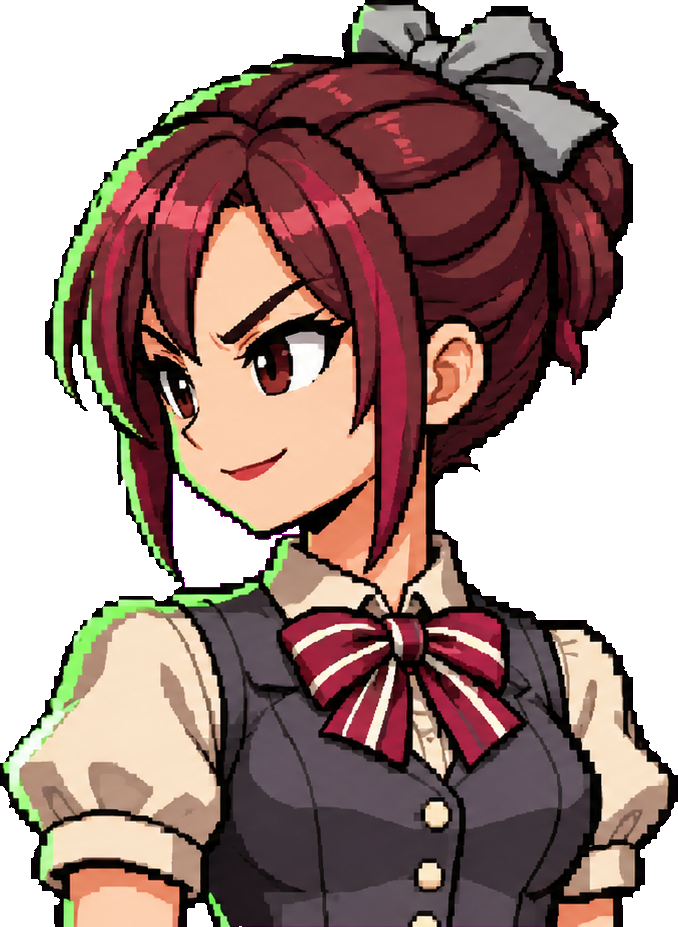
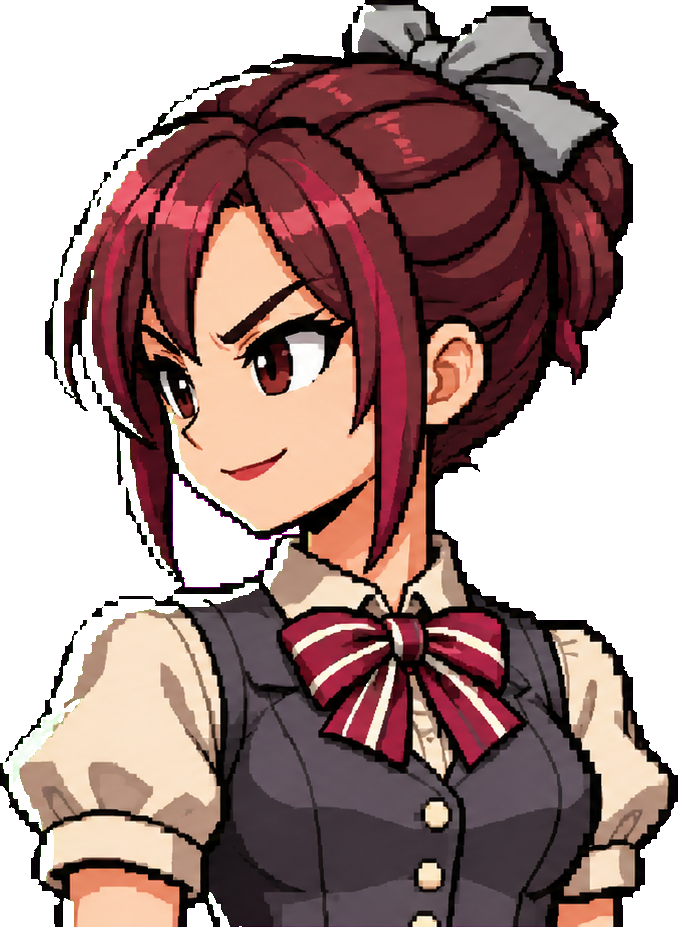
UX 巡檢第三批：對話跳過鈕移左上、茶水間特訓可返回、許許立繪去綠邊
- 對話的「跳過」移到左上，不會被右上的考績紙條蓋住
- 打輸的按鈕改寫「重新出發」（是整趟重來）
- 茶水間：全員滿血時預設停在特訓；特訓三選一可以回上一頁
- 採買站的離開說明寫明福利社也能花
- 行程表選了道具後點到用不到的人，會說明原因，不再跳去資料頁
- 招募卡的定位寫完整（防禦、補血、攻擊）
- 許許的立繪清掉綠幕殘邊

diff --git a/js/game.js b/js/game.js
@@ -656,7 +656,8 @@ function startStage() {
 let rescued = null;
 const met = id => { PREF.met = PREF.met || []; if (!PREF.met.includes(id)) { PREF.met.push(id); savePref(); } };
 const uniteWith = id => { if (!run || !run.roster) return null; const U = R.UNITES.find(u => u.who.includes(id) && u.who.every(h => h === id || run.roster.includes(h))); return U ? `★ 和${U.who.filter(h => h !== id).map(h => DEFS[h].name).join('、')}有合體技「${U.name}」` : null; };      // 招募卡上提醒：帶他就能放合體技
-const heroCard = (id, go, starter) => ({ label: DEFS[id].name, tag: DEFS[id].job.includes(R.ROLE[id]) ? DEFS[id].job : `${DEFS[id].job}　${R.ROLE[id]}`, bust: id, lines: [`HP ${R.STAT[id].hp}　SP ${R.STAT[id].sp}　攻擊 ${R.STAT[id].atk}`, ...(starter ? [`${R.SKILLS[id].length} 個招式先選一個（下一步）`] : [R.SENSE.includes(id) ? '★ 在場時看得到敵人的弱點和下一步' : null, uniteWith(id), ...R.SKILLS[id].map(k => `◆ ${k.name}　${k.note}`)]), `奧義「${DEFS[id].skill}」`, DEFS[id].desc || ''], go });
+const ROLE_NAME = { 坦: '防禦', 補: '補血', 輸出: '攻擊' };
+const heroCard = (id, go, starter) => ({ label: DEFS[id].name, tag: `${DEFS[id].job}・${ROLE_NAME[R.ROLE[id]] || R.ROLE[id]}`, bust: id, lines: [`HP ${R.STAT[id].hp}　SP ${R.STAT[id].sp}　攻擊 ${R.STAT[id].atk}`, ...(starter ? [`${R.SKILLS[id].length} 個招式先選一個（下一步）`] : [R.SENSE.includes(id) ? '★ 在場時看得到敵人的弱點和下一步' : null, uniteWith(id), ...R.SKILLS[id].map(k => `◆ ${k.name}　${k.note}`)]), `奧義「${DEFS[id].skill}」`, DEFS[id].desc || ''], go });
 // 立繪對話（11/21 使用者：要有開場對話，同事加入時也要講話）。點一下換下一句，右上角可以跳過。台詞都在 TALK，要改口吻改這裡。
 // open：主角＋第一場陪打的人（'主角+陪打'），每一組只在第一次出現；join：加入隊伍時說的一句
 const TALK = {
@@ -675,7 +676,7 @@ function drawTalk() { const T = menu.talk, [who, line] = T.lines[T.i], d = DEFS[
   const bx = 240, bw2 = W - 480, by = 770, bh2 = 256, right = T.cast.indexOf(who) === 1, nw = Math.max(300, mw(d.name, 42, 900, SERIF) + mw(d.tag || d.job, 26, 700) + 90), nx = right ? bx + bw2 - nw - 36 : bx + 36; skin.paper(bx, by, bw2, bh2);
   skin.wood(nx, by - 50, nw, 76, { studs: false }); text(d.name, nx + 26, by + 4, { px: 42, w: 900, fam: SERIF, col: CREAM, ls: 4, stroke: 'rgba(20,10,4,.7)', sw: 5 }); text(d.tag || d.job, nx + nw - 24, by + 2, { px: 26, w: 700, align: 'right', col: BRASS });
   wrap(line, bw2 - 120, 44).slice(0, 3).forEach((s, k) => text(s, bx + 60, by + 104 + k * 60, { px: 44, w: 700, col: INK }));
-  text(last ? '點一下繼續 ▶' : `點一下看下一句（${T.i + 1}／${T.lines.length}）▼`, bx + bw2 - 44, by + bh2 - 26, { px: 26, w: 700, align: 'right', col: INK2 }); sheetBtn('跳過', W - 310, 30, 260, 88, 1, false); }
+  text(last ? '點一下繼續 ▶' : `點一下看下一句（${T.i + 1}／${T.lines.length}）▼`, bx + bw2 - 44, by + bh2 - 26, { px: 26, w: 700, align: 'right', col: INK2 }); sheetBtn('跳過', 50, 30, 260, 88, 1, false); }
 // 開局的選擇頁（路線、週目、加班、主角、招式、帶誰、職位）一路走過來的紀錄：每一頁左上角都有「回上一頁」，第一頁回標題
 const NAV = []; let jobOffer = null;
 const toTitle = () => { NAV.length = 0; menu = null; saved = undefined; phase = 'title'; };
@@ -756,12 +757,12 @@ function openEvent() { const key = run.events[run.floor], ev = R.EVENTS[key];
 // 休息站二選一：休息（回血、補 SP），或特訓（三個招式挑一個升級成「＋」：傷害與回復量 ＋25%、SP 消耗 －20%，每招一次）
 function openRest(nd, free) { const place = nd.name || '茶水間', tr = R.offerTrain(run), hurt = run.roster.filter(id => id !== 'vivi').reduce((a, id) => a + (R.STAT[id].hp - run.hp[id]), 0);
   const rest = () => { const v = R.rest(run); snd(now, 'heal', .8); R.advance(run); openHub(v > 0 ? `在${place}休息：全隊共回復 ${v} HP，SP 補滿` : `在${place}休息：SP 補滿（HP 本來就是滿的）`); };
-  const train = () => openCards({ title: free ? place : '特訓', sub: '挑一個招式升級成「＋」（每個招式只能升一次）：', foot: '選完回到行程表', items: tr.map(([id, key]) => { const k = R.SKILLS[id].find(q => q.key === key); return { label: k.name + '＋', tag: `${DEFS[id].name}　SP ${k.sp} → ${Math.ceil(k.sp * .8)}`, icon: 'sk_' + key, lines: [k.desc, '傷害與回復量 ＋25%'], go: () => { R.applyTrain(run, id, key); snd(now, sfxOr('train', 'buff'), .8); R.advance(run); openHub(`特訓完成：${DEFS[id].name}的「${k.name}」升級成「${k.name}＋」`); } }; }) });
+  const train = () => { const prev = menu; openCards({ ...(free ? {} : { back: () => { menu = prev; phase = 'pick'; focus = 1; } }), title: free ? place : '特訓', sub: '挑一個招式升級成「＋」（每個招式只能升一次）：', foot: '選完回到行程表', items: tr.map(([id, key]) => { const k = R.SKILLS[id].find(q => q.key === key); return { label: k.name + '＋', tag: `${DEFS[id].name}　SP ${k.sp} → ${Math.ceil(k.sp * .8)}`, icon: 'sk_' + key, lines: [k.desc, '傷害與回復量 ＋25%'], go: () => { R.applyTrain(run, id, key); snd(now, sfxOr('train', 'buff'), .8); R.advance(run); openHub(`特訓完成：${DEFS[id].name}的「${k.name}」升級成「${k.name}＋」`); } }; }) }); };
   if (free) { if (tr.length) return train(); for (const id of run.roster) run.sp[id] = Math.min(R.STAT[id].sp, run.sp[id] + 40); R.advance(run); return openHub(`${place}：招式都升級過了，全員 SP ＋40`); }
   if (!tr.length) return rest();
   openCards({ title: place, sub: '休息一下，還是趁空檔練一招？只能選一個。', foot: '選一個', items: [
     { label: '休息', tag: '回血、補 SP', icon: 'rest', big: true, lines: ['全員 HP 回復一半', '全員 SP 補滿', hurt > 0 ? `現在全隊少了 ${hurt} HP` : '現在大家都是滿血'], go: rest },
-    { label: '特訓', tag: '升級一個招式', icon: 'up_learn', big: true, lines: ['三個招式挑一個升級成「＋」', '傷害、回復量 ＋25%', 'SP 消耗 －20%；這一站不回血'], go: train }] }); }
+    { label: '特訓', tag: '升級一個招式', icon: 'up_learn', big: true, lines: ['三個招式挑一個升級成「＋」', '傷害、回復量 ＋25%', 'SP 消耗 －20%；這一站不回血'], go: train }] }); if (hurt <= 0) focus = 1; }
 // 採買站：用報帳額度買東西，可以買好幾樣，按「離開」才走
 // 福利社：行程表上隨時可以開，把打贏拿到的報帳額度花掉——買單樣道具、抽一位同事、買素質 ＋1（規則在 R.storeBuy）
 function openStore(msg) { const price = p => `${p} 點` + (run.coin < p ? '（不夠）' : ''), buy = k => { const r = R.storeBuy(run, k); if (!r) return; snd(now, sfxOr('coin', 'buff'), .8); if (r.joined) { met(r.joined); saveGame(); return sayJoin(r.joined, () => openStore(`抽到${DEFS[r.joined].name}，加入隊伍！`)); } saveGame(); if (r.boost) return openBoost(`${R.BOOST[r.boost][0]}強化到 ＋${r.lv}`); openStore(r.joined ? `抽到${DEFS[r.joined].name}，加入隊伍！` : `買了${R.ITEMS[r.item].name}`); };
@@ -777,7 +778,7 @@ function openShop(nd) { const st = R.shopStock(run), U = st.relic && R.UPGRADES[
     U ? { label: U.name, tag: `${R.UP_TAG[st.relic] || '小物'}　${tag('relic')}`, icon: 'up_' + st.relic, lines: U.desc.split('，'), off: !can('relic'), go: () => { R.buy(run, 'relic'); snd(now, sfxOr('coin', 'buff'), .8); openShop(nd); } } : { label: '小物賣完了', tag: '', icon: 'gift', lines: ['能拿的都拿過了'], off: true, go: () => {} },
     { label: '補給包', tag: tag('supply'), icon: 'up_drinks', lines: ['珍珠奶茶 ＋1', '黑咖啡 ＋1', '雞排便當 ＋1'], off: !can('supply'), go: () => { R.buy(run, 'supply'); snd(now, sfxOr('coin', 'buff'), .8); openShop(nd); } },
     { label: '特訓', tag: tr.length ? tag('train') : '招式都升級過了', icon: 'up_learn', lines: ['三個招式挑一個升級成「＋」', '傷害、回復量 ＋25%', 'SP 消耗 －20%'], off: !can('train') || !tr.length, go: () => openCards({ title: '特訓', sub: `挑一個招式升級成「＋」（${R.PRICE.train} 點）：`, foot: '選完回到採買', items: tr.map(([id, key]) => { const k = R.SKILLS[id].find(q => q.key === key); return { label: k.name + '＋', tag: `${DEFS[id].name}　SP ${k.sp} → ${Math.ceil(k.sp * .8)}`, icon: 'sk_' + key, lines: [k.desc, '傷害與回復量 ＋25%'], go: () => { R.buy(run, 'train', [id, key]); snd(now, sfxOr('train', 'buff'), .8); openShop(nd); } }; }) }) },
-    { label: '離開', tag: '回行程表', icon: 'clock', lines: ['沒花完的額度會留著', '下一個採買站還能用'], go: leave }] }); }
+    { label: '離開', tag: '回行程表', icon: 'clock', lines: ['沒花完的額度會留著', '行程表的福利社也能花'], go: leave }] }); }
 function openUpgrade(gift) { const offers = R.offerUpgrades(run);
   openCards({ title: gift ? '福委會' : '過關獎勵', sub: gift ? '這個月的福利，選一個：' : (rescued ? `救出了${DEFS[rescued].name}！` : '') + (run.guestLeft ? `${DEFS[run.guestLeft].name}先回去忙了，接下來自己找同事。` : '') + (run.lastLearn && run.starter ? `${DEFS[run.starter].name}學會了「${R.SKILLS[run.starter].find(k => k.key === run.lastLearn).name}」！` : '') + (run.lastReward ? run.lastReward + '。' : '') + (run.lastCoin ? `報帳額度 ＋${run.lastCoin}（共 ${run.coin} 點，行程表的福利社可以花）。` : '') + (run.guestLeft || run.lastLearn || rescued ? '全員回復一些 HP 和 SP。' : '全員回復兩成五 HP、三成 SP，倒下的人也站起來了。') + '再選一個強化：', foot: '選完回到行程表', items: offers.map(k => { const U = R.UPGRADES[k], who = (U.need || []).filter(id => run.roster.includes(id)).map(id => DEFS[id].name); const tg = R.UP_TAG[k], tn = tg ? R.tagCount(run, tg) : 0; return { label: U.name, tag: [tg ? `${tg}${tn < 3 ? `（已有 ${tn}／3）` : '（套裝已湊齊）'}` : '', who.length ? `配合${who.join('、')}的招式` : ''].filter(Boolean).join('　'), icon: 'up_' + k, lines: U.desc.split('，'), big: true, go: () => pickUpgrade(k) }; }) }); }
 function pickUpgrade(k, opt) {
@@ -793,12 +794,12 @@ function hubItems() { const fl = R.MAP[run.floor], ok = R.reachable(run), items 
 // 資料卡：素質、招式、奧義。這一輪同行的人可以用「上一位／下一位」翻；名冊裡沒同行的人只看基本資料
 // 「隊伍與道具」選單：隊伍順序（只有在行程表能調）、每個人的資料卡、道具、強化、夥伴名冊。行程表與戰鬥中輪到自己時都能叫出來
 const inBattle = () => phase !== 'hub', curHp = id => inBattle() && R.HEROES.includes(id) ? Math.max(0, state.hp[id]) : run.hp[id], curSp = id => inBattle() && R.HEROES.includes(id) ? state.sp[id] : run.sp[id];
-let mapItem = null;      // 行程表的「隊伍與道具」：點了哪個道具、等著選人（戰鬥中不用這個，照舊從指令用）
+let mapItem = null, mapNote = '';      // 行程表的「隊伍與道具」：點了哪個道具、等著選人（戰鬥中不用這個，照舊從指令用）
 const mapUse = id => { const k = mapItem, r = k && R.useMapItem(run, k, id); if (!r) { uiSound('move'); return; } snd(now, 'heal', .8); if (!R.mapItemTargets(run, k).length) mapItem = null; saveGame(); refreshPanel(); };
 function panelItems() { const items = []; if (inBattle()) mapItem = null;
   if (!inBattle()) run.roster.forEach((id, r) => { if (r > 0) items.push({ label: '上移', re: r, d: -1, go: () => { R.reorder(run, r, -1); refreshPanel(); } }); if (r < run.roster.length - 1) items.push({ label: '下移', re: r, d: 1, go: () => { R.reorder(run, r, 1); refreshPanel(); } }); });
-  run.roster.forEach((id, r) => items.push({ label: '資料', view: id, row: r, go: () => mapItem && R.mapItemTargets(run, mapItem).includes(id) ? mapUse(id) : openSheet(id) }));
-  if (!inBattle() && panelTab === 0) for (const k of Object.keys(R.ITEMS)) items.push({ label: R.ITEMS[k].name, use: k, off: !R.mapItemTargets(run, k).length, go: () => { mapItem = mapItem === k ? null : k; snd(now, 'card', .6); refreshPanel(); } });
+  run.roster.forEach((id, r) => items.push({ label: '資料', view: id, row: r, go: () => { if (!mapItem) return openSheet(id); if (R.mapItemTargets(run, mapItem).includes(id)) { mapNote = ''; return mapUse(id); } mapNote = `${DEFS[id].name}現在用不到${R.ITEMS[mapItem].name}`; uiSound('move'); } }));
+  if (!inBattle() && panelTab === 0) for (const k of Object.keys(R.ITEMS)) items.push({ label: R.ITEMS[k].name, use: k, off: !R.mapItemTargets(run, k).length, go: () => { mapItem = mapItem === k ? null : k; mapNote = ''; snd(now, 'card', .6); refreshPanel(); } });
   if (!inBattle()) run.roster.forEach((id, r) => { if (R.BACKERS.includes(id) && !(id === 'vivi' && R.backOf(run) === 'vivi')) items.push({ label: R.backOf(run) === id ? '回前排' : '站後排', bk: r, go: () => { R.setBack(run, R.backOf(run) === id ? null : id); snd(now, 'card', .6); saveGame(); refreshPanel(); } }); });
   for (const t of [0, 1, 2]) items.push({ label: ['道具與強化', '夥伴名冊', '敵人圖鑑'][t], tab: t, go: () => { panelTab = t; refreshPanel(); focus = menu.items.findIndex(m => m.tab === t); } });
   if (panelTab === 1) for (const id of DEX) if ((PREF.met || []).includes(id)) items.push({ label: '資料', view: id, dex: true, go: () => openSheet(id) });
@@ -961,7 +962,7 @@ function drawPanel() { const fight = inBattle(); if (fight) { c.fillStyle = 'rgb
     Object.keys(R.ITEMS).forEach((k, j) => { const x = RX + 16 + j * 248, y = RY + 18, w = 240, h = 168, im = A.items[k] || (k === 'bento' ? A.icons.up_bento : null), it = R.ITEMS[k]; skin.paper(x, y, w, h, { old: !bag[k] });
       if (im) pix(im, x + 14, y + 10, 78 * im.width / im.height, 78); text(`×${bag[k]}`, x + w - 18, y + 68, { px: 48, w: 900, align: 'right', col: bag[k] ? INK : RED }); text(it.name, x + 16, y + 124, { px: 32, w: 900, fam: SERIF, col: INK }); text(fit(it.note, w - 28, 26, 700), x + 16, y + 156, { px: 26, w: 700, col: INK2 });
       { const ui = menu.items.findIndex(m => m.use === k); if (ui >= 0) { const m = menu.items[ui], sel = mapItem === k; zones.push({ x, y, w, h, i: ui, off: !!m.off }); if (sel || (focus === ui && !m.off)) { c.strokeStyle = sel ? '#d8a02a' : TEAL; c.lineWidth = sel ? 7 : 5; c.strokeRect(x + 3, y + 3, w - 6, h - 6); } if (!m.off) { c.fillStyle = sel ? '#d8a02a' : '#1f6a5c'; c.fillRect(x + w - 92, y + 96, 78, 38); text(sel ? '取消' : '使用', x + w - 53, y + 124, { px: 26, w: 900, align: 'center', col: '#fff8e6' }); } } } });
-    text(fight ? '道具在戰鬥中輪到自己時，從「道具」指令使用' : mapItem ? `點左邊框起來的人，用${R.ITEMS[mapItem].name}` : '點道具再點左邊的人，在這裡就能用', RX + 22, RY + 226, { px: 26, w: 700, col: 'rgba(239,230,207,.72)' });
+    text(fight ? '道具在戰鬥中輪到自己時，從「道具」指令使用' : mapItem ? (mapNote ? mapNote + '；' : '') + `點左邊框起來的人，用${R.ITEMS[mapItem].name}` : '點道具再點左邊的人，在這裡就能用', RX + 22, RY + 226, { px: 26, w: 700, col: 'rgba(239,230,207,.72)' });
     // 強化：名字和效果都寫出來
     const cnt = {}; for (const k of run.picks) cnt[k] = (cnt[k] || 0) + 1; const ks = [...(run.job ? ['@job'] : []), ...Object.keys(cnt)], UY = RY + 304, upOf = k => k === '@job' ? { name: R.JOBS[run.job][0], desc: '好處：' + R.JOBS[run.job][1], bad: '限制：' + R.JOBS[run.job][2] } : R.UPGRADES[k], jo = run.job ? 32 : 0, upIc = k => A.icons[k === '@job' ? JOB_ICON[run.job] : 'up_' + k];
     text('這一輪的強化', RX + 22, RY + 284, { px: 32, w: 900, fam: SERIF, col: CREAM, ls: 6, stroke: 'rgba(20,10,4,.7)', sw: 5 }); { const st = Object.keys(R.SETS).map(t => [t, R.tagCount(run, t)]).filter(x => x[1] > 0).map(([t, n]) => `${t} ${Math.min(n, 3)}／3${n >= 3 ? '✓' : ''}`).join('　'); text(fit(st ? `套裝　${st}` : `${run.picks.length} 個`, RW - 330, 24, 700), RX + RW - 24, RY + 284, { px: 24, w: 700, align: 'right', col: BRASS }); }
@@ -1191,7 +1192,7 @@ function drawReport() { const k = report; if (!k || now < k.t0) return; zones = 
   if (k.win) text('今天，準時下班。', L + 8, Y + PH - 74, { px: 38, w: 900, fam: SERIF, col: INK, ls: 6 }); else if (k.log.length) { text('最後幾步', L + 8, Y + PH - 136, { px: 16, w: 900, col: RED, ls: 4 }); k.log.forEach((ln, i) => text(fit(ln, IW - 384, 17), L + 8, Y + PH - 110 + i * 24, { px: 17, w: 700, col: INK2 })); }
   else wrap('提示：看到「蓄力」就防禦或用坦克的奧義；血少先喝珍珠奶茶；岔路多去茶水間。', IW - 400, 20).forEach((ln, i) => text(ln, L + 8, Y + PH - 100 + i * 30, { px: 20, w: 700, col: INK2 }));
   { const se = el - 1.9; if (se > 0) skin.stamp(k.win ? '討伐完成' : '未結案', X + PW - 210, Y + 112, -.12, 46, se < .2 ? lerp(2.4, 1, easeOut(se / .2)) : 1); }
-  c.restore(); if (phase === 'over') bigButton(k.win ? '再玩一次' : '再挑戰一次', X + PW - 64 - 180, Y + PH - 88, 360, 92);
+  c.restore(); if (phase === 'over') bigButton(k.win ? '再玩一次' : '重新出發', X + PW - 64 - 180, Y + PH - 88, 360, 92);
 }
 // 封面上另外開的兩張紙：玩法說明、更新紀錄（新版本往最上面加一筆，留最近八筆）
 let titleInfo = null, bootClosed = false;
